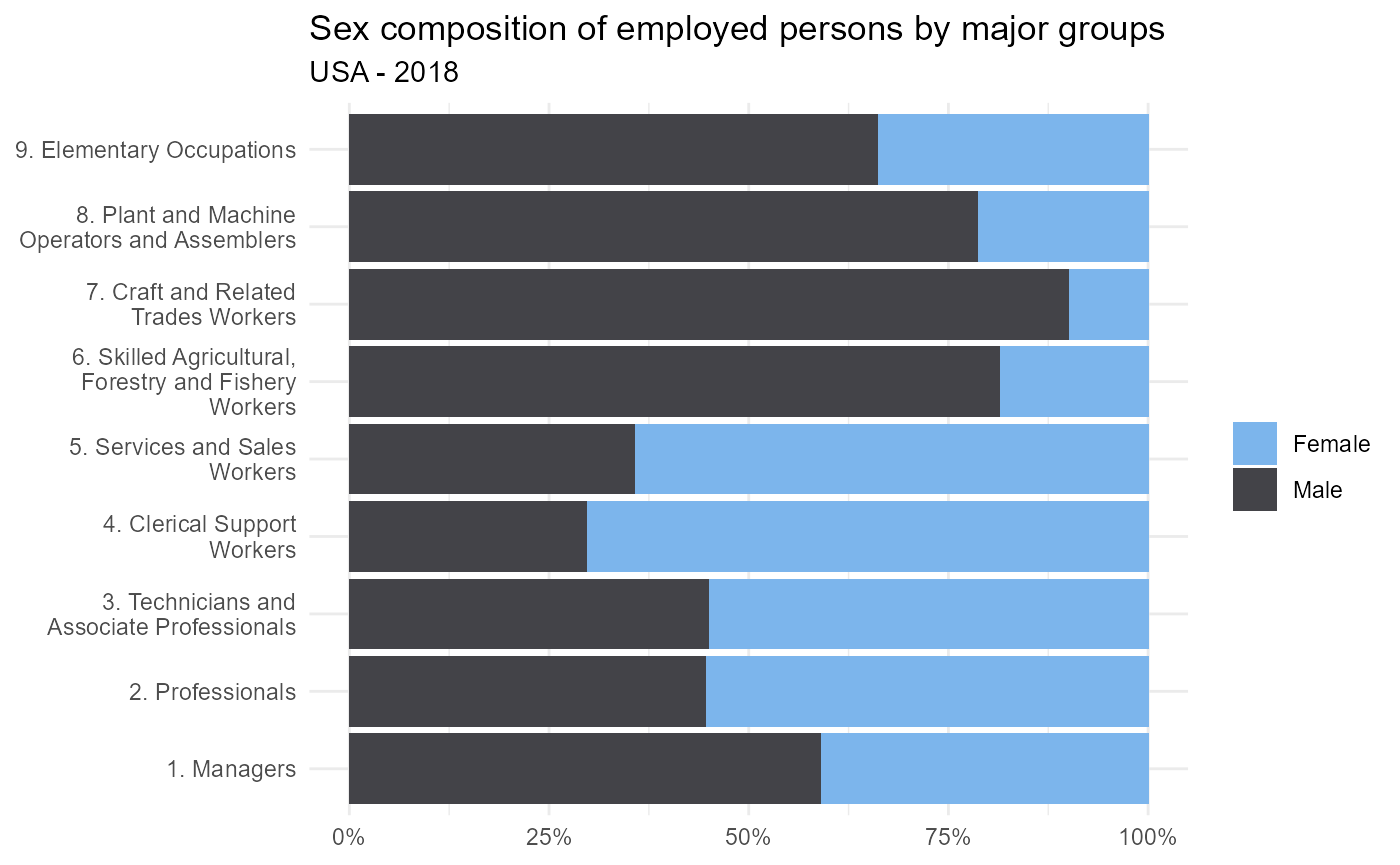
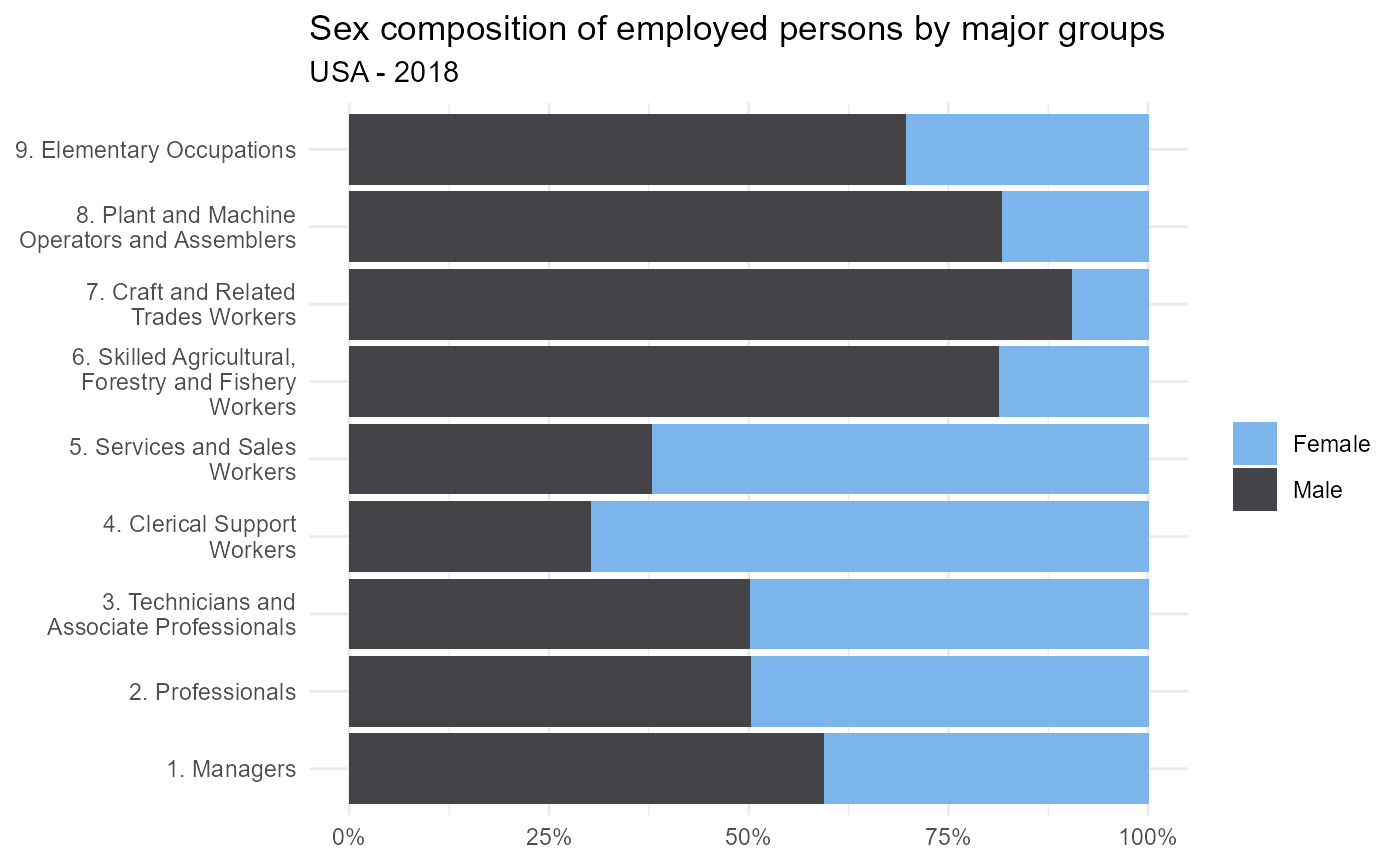
cambios 22_09_2021

diff --git a/docs/articles/Genre_analysis.html b/docs/articles/Genre_analysis.html
@@ -126,7 +126,8 @@
 <code class="sourceCode R"><span class="va">eph.2018.01</span> <span class="op">&lt;-</span> <span class="fu"><a href="../reference/reclassify_to_isco08.html">reclassify_to_isco08</a></span><span class="op">(</span><span class="va">eph.2018.01.original</span>, 
                                     <span class="va">PP04D_COD</span>, 
                                     classif_origin<span class="op">=</span><span class="st">"CNO2001"</span>, 
-                                    add_major_groups <span class="op">=</span> <span class="cn">TRUE</span><span class="op">)</span></code></pre></div>
+                                    add_major_groups <span class="op">=</span> <span class="cn">TRUE</span>,
+                                    add_skill <span class="op">=</span> <span class="cn">TRUE</span><span class="op">)</span></code></pre></div>
 <p>Now we can tabulate our new variable <em>“major_group”</em> using the EPH’s variable for genre <em>“CH04”</em> and plot the results</p>
 <div class="sourceCode" id="cb5"><pre class="downlit sourceCode r">
 <code class="sourceCode R">
@@ -154,25 +155,26 @@
   <span class="fu">coord_flip</span><span class="op">(</span><span class="op">)</span></code></pre></div>
 <p><img src="Genre_analysis_files/figure-html/unnamed-chunk-6-1.png" width="700"></p>
 <p>The graph above shows the sex composition of each major group. The major group 1 (Managers) is unevenly distributed since 68% of people working at these occupations are men. This is the case also for occupations from major groups 8 and 7, related to shop-floor industrial activities, which are mostly done by men (87% and 90% respectivly).</p>
-<p>Let’s compare these results to the occupations distribution by sex in the USA. We shall use the IPUMS’s version of the Current Population Survey 2018. If you want to reproduce this example, you should ask for the data extract of CPS at <a href="https://cps.ipums.org/" class="uri">https://cps.ipums.org/</a></p>
+<p>Let’s compare these results to the occupations distribution by sex in the United States of America. We shall use the IPUMS’s version of Annual Social and Economic Supllement from the Current Population Survey 2018. If you want to reproduce this example, you should ask for the data extract of CPS at <a href="https://cps.ipums.org/" class="uri">https://cps.ipums.org/</a></p>
 <div class="sourceCode" id="cb6"><pre class="downlit sourceCode r">
 <code class="sourceCode R">
-<span class="fu"><a href="https://rdrr.io/r/base/load.html">load</a></span><span class="op">(</span><span class="st">"../data-raw/bases/cps2018_occ_genre.rda"</span><span class="op">)</span></code></pre></div>
-<p>Once the dataframe is loaded, we can use <code>reclassify_to_isco08</code> in order to reclassify the variable <em>“OCC”</em> that contains the occupation clasification with the <em>“Census2010”</em> system. We also set <code>add_major_groups</code> as TRUE.</p>
+<span class="va">cps_asec_2018</span> <span class="op">&lt;-</span> <span class="fu"><a href="https://rdrr.io/r/base/readRDS.html">readRDS</a></span><span class="op">(</span><span class="st">"../data-raw/bases/Base_USA2018.RDS"</span><span class="op">)</span></code></pre></div>
+<p>Once the dataframe is loaded, we can use <code>reclassify_to_isco08</code> in order to reclassify the variable <em>“OCC2010”</em> that contains the occupation clasification with the <em>“Census2010”</em> system. We also set <code>add_major_groups</code> as TRUE.</p>
 <div class="sourceCode" id="cb7"><pre class="downlit sourceCode r">
 <code class="sourceCode R">
-<span class="va">cps.2018</span> <span class="op">&lt;-</span>  <span class="fu"><a href="../reference/reclassify_to_isco08.html">reclassify_to_isco08</a></span><span class="op">(</span><span class="va">cps2018_occ_genre</span>, 
-                                    <span class="va">OCC</span>, 
-                                    classif_origin<span class="op">=</span><span class="st">"Census2010"</span>, 
-                                    add_major_groups <span class="op">=</span> <span class="cn">TRUE</span><span class="op">)</span></code></pre></div>
+<span class="va">cps_asec_2018</span> <span class="op">&lt;-</span>  <span class="fu"><a href="../reference/reclassify_to_isco08.html">reclassify_to_isco08</a></span><span class="op">(</span><span class="va">cps_asec_2018</span>, 
+                                  <span class="va">OCC2010</span>, 
+                                  classif_origin<span class="op">=</span><span class="st">"Census2010"</span>, 
+                                  add_major_groups <span class="op">=</span> <span class="cn">TRUE</span>,
+                                  add_skill <span class="op">=</span> <span class="cn">TRUE</span><span class="op">)</span></code></pre></div>
 <p>Now we tabulate the data and plot it.</p>
 <div class="sourceCode" id="cb8"><pre class="downlit sourceCode r">
-<code class="sourceCode R"><span class="va">genre_composition.usa</span><span class="op">&lt;-</span> <span class="va">cps.2018</span> <span class="op">%&gt;%</span> 
+<code class="sourceCode R"><span class="va">genre_composition.usa</span><span class="op">&lt;-</span> <span class="va">cps_asec_2018</span> <span class="op">%&gt;%</span> 
   <span class="fu"><a href="https://rdrr.io/r/stats/filter.html">filter</a></span><span class="op">(</span><span class="va">EMPSTAT</span><span class="op">==</span><span class="fl">10</span> <span class="op">&amp;</span> <span class="op">!</span><span class="fu"><a href="https://rdrr.io/r/base/NA.html">is.na</a></span><span class="op">(</span><span class="va">major_group</span><span class="op">)</span><span class="op">)</span> <span class="op">%&gt;%</span> 
   <span class="fu">mutate</span><span class="op">(</span>genre<span class="op">=</span> <span class="fu">case_when</span><span class="op">(</span><span class="va">SEX</span><span class="op">==</span><span class="fl">1</span> <span class="op">~</span> <span class="st">"Male"</span>, 
                           <span class="va">SEX</span><span class="op">==</span><span class="fl">2</span> <span class="op">~</span> <span class="st">"Female"</span><span class="op">)</span><span class="op">)</span> <span class="op">%&gt;%</span> 
   <span class="fu">group_by</span><span class="op">(</span><span class="va">major_group</span>,<span class="va">genre</span><span class="op">)</span> <span class="op">%&gt;%</span> 
-  <span class="fu">summarise</span> <span class="op">(</span>absolute<span class="op">=</span><span class="fu">n</span><span class="op">(</span><span class="op">)</span><span class="op">)</span> <span class="op">%&gt;%</span> 
+  <span class="fu">summarise</span> <span class="op">(</span>absolute<span class="op">=</span><span class="fu"><a href="https://rdrr.io/r/base/sum.html">sum</a></span><span class="op">(</span><span class="va">ASECWT</span>,na.rm <span class="op">=</span> <span class="cn">T</span><span class="op">)</span><span class="op">)</span> <span class="op">%&gt;%</span> 
   <span class="fu">group_by</span><span class="op">(</span><span class="va">major_group</span><span class="op">)</span> <span class="op">%&gt;%</span> 
   <span class="fu">mutate</span><span class="op">(</span>percentage<span class="op">=</span> <span class="va">absolute</span><span class="op">/</span><span class="fu"><a href="https://rdrr.io/r/base/sum.html">sum</a></span><span class="op">(</span><span class="va">absolute</span><span class="op">)</span><span class="op">)</span> <span class="op">%&gt;%</span> 
   <span class="fu">ungroup</span><span class="op">(</span><span class="op">)</span> <span class="op">%&gt;%</span> 
@@ -191,24 +193,14 @@
   <span class="fu">scale_y_continuous</span><span class="op">(</span>labels <span class="op">=</span> <span class="fu">scales</span><span class="fu">::</span><span class="va"><a href="https://scales.r-lib.org/reference/label_percent.html">percent</a></span><span class="op">)</span><span class="op">+</span>
   <span class="fu">coord_flip</span><span class="op">(</span><span class="op">)</span></code></pre></div>
 <p><img src="Genre_analysis_files/figure-html/unnamed-chunk-9-1.png" width="700"></p>
-<p>The graph shows that occupations are unequaly distributed at major group 1 (Managers), whereas women represent 41% of total employmen and men 59%. The distribution is quite even for major groups 2 and 3. while women are the majority at major groups 4 and 5. In major groups 6 to 9, men are the majority</p>
+<p>The graph shows that occupations are unequaly distributed at major group 1 (Managers), whereas women represent 41% of total employmen and men 59%. The distribution is quite even for major groups 2 and 3. while women are the majority at major groups 4 and 5. In major groups 6 to 9, men are the majority.</p>
 </div>
 <div id="skill-level-analysis" class="section level3">
 <h3 class="hasAnchor">
 <a href="#skill-level-analysis" class="anchor"></a>Skill level analysis</h3>
-<p>Let’s analyse the sex distribution of skill levels based on the 9 ISCO major groups. The param <code>add_skill</code> in the <code>reclassify_to_isco08</code> function will get the 3-tiers variable for skill level, indicating whether the job is high, medium or low skilled. First we get the variable <em>skill_level</em> for the two datasets we are using.</p>
-<div class="sourceCode" id="cb9"><pre class="downlit sourceCode r">
-<code class="sourceCode R"><span class="va">eph.2018.01</span> <span class="op">&lt;-</span> <span class="fu"><a href="../reference/reclassify_to_isco08.html">reclassify_to_isco08</a></span><span class="op">(</span><span class="va">eph.2018.01.original</span>, 
-                                    <span class="va">PP04D_COD</span>, 
-                                    classif_origin<span class="op">=</span><span class="st">"CNO2001"</span>, 
-                                    add_skill <span class="op">=</span> <span class="cn">TRUE</span><span class="op">)</span>
-                                    
-<span class="va">cps.2018</span> <span class="op">&lt;-</span>  <span class="fu"><a href="../reference/reclassify_to_isco08.html">reclassify_to_isco08</a></span><span class="op">(</span><span class="va">cps2018_occ_genre</span>, 
-                                    <span class="va">OCC</span>, 
-                                    classif_origin<span class="op">=</span><span class="st">"Census2010"</span>, 
-                                    add_skill <span class="op">=</span> <span class="cn">TRUE</span><span class="op">)</span></code></pre></div>
+<p>Let’s analyse the sex distribution of skill levels based on the 9 ISCO major groups. Remember that we added before the param <code>add_skill</code> in the <code><a href="../reference/reclassify_to_isco08.html">reclassify_to_isco08()</a></code> function to get the 3-tiers variable for skill level, indicating whether the job is high, medium or low skilled.</p>
 <p>Now we can tabulate the data and plot it to compare</p>
-<div class="sourceCode" id="cb10"><pre class="downlit sourceCode r">
+<div class="sourceCode" id="cb9"><pre class="downlit sourceCode r">
 <code class="sourceCode R">
 <span class="va">genre_composition.skill.arg</span><span class="op">&lt;-</span> <span class="va">eph.2018.01</span> <span class="op">%&gt;%</span> 
   <span class="fu"><a href="https://rdrr.io/r/stats/filter.html">filter</a></span><span class="op">(</span><span class="va">ESTADO</span><span class="op">==</span><span class="fl">1</span> <span class="op">&amp;</span> <span class="op">!</span><span class="fu"><a href="https://rdrr.io/r/base/NA.html">is.na</a></span><span class="op">(</span><span class="va">skill_level</span><span class="op">)</span><span class="op">)</span> <span class="op">%&gt;%</span> 
@@ -217,20 +209,16 @@
   <span class="fu">group_by</span><span class="op">(</span><span class="va">skill_level</span>,<span class="va">genre</span><span class="op">)</span> <span class="op">%&gt;%</span> 
   <span class="fu">summarise</span> <span class="op">(</span>absolute<span class="op">=</span><span class="fu"><a href="https://rdrr.io/r/base/sum.html">sum</a></span><span class="op">(</span><span class="va">PONDERA</span><span class="op">)</span><span class="op">)</span> <span class="op">%&gt;%</span> 
   <span class="fu">group_by</span><span class="op">(</span><span class="va">skill_level</span><span class="op">)</span> <span class="op">%&gt;%</span> 
-  <span class="fu">mutate</span><span class="op">(</span>percentage<span class="op">=</span> <span class="va">absolute</span><span class="op">/</span><span class="fu"><a href="https://rdrr.io/r/base/sum.html">sum</a></span><span class="op">(</span><span class="va">absolute</span><span class="op">)</span><span class="op">)</span> <span class="op">%&gt;%</span> 
-  <span class="fu">ungroup</span><span class="op">(</span><span class="op">)</span> <span class="op">%&gt;%</span> 
-  <span class="fu">mutate</span><span class="op">(</span>skill_level <span class="op">=</span> <span class="fu">str_wrap</span><span class="op">(</span><span class="va">skill_level</span>,width <span class="op">=</span> <span class="fl">25</span><span class="op">)</span><span class="op">)</span>
+  <span class="fu">mutate</span><span class="op">(</span>percentage<span class="op">=</span> <span class="va">absolute</span><span class="op">/</span><span class="fu"><a href="https://rdrr.io/r/base/sum.html">sum</a></span><span class="op">(</span><span class="va">absolute</span><span class="op">)</span><span class="op">)</span> 
 
-<span class="va">genre_composition.skill.usa</span><span class="op">&lt;-</span> <span class="va">cps.2018</span> <span class="op">%&gt;%</span> 
+<span class="va">genre_composition.skill.usa</span><span class="op">&lt;-</span> <span class="va">cps_asec_2018</span> <span class="op">%&gt;%</span> 
   <span class="fu"><a href="https://rdrr.io/r/stats/filter.html">filter</a></span><span class="op">(</span><span class="va">EMPSTAT</span><span class="op">==</span><span class="fl">10</span> <span class="op">&amp;</span> <span class="op">!</span><span class="fu"><a href="https://rdrr.io/r/base/NA.html">is.na</a></span><span class="op">(</span><span class="va">skill_level</span><span class="op">)</span><span class="op">)</span> <span class="op">%&gt;%</span> 
   <span class="fu">mutate</span><span class="op">(</span>genre<span class="op">=</span> <span class="fu">case_when</span><span class="op">(</span><span class="va">SEX</span><span class="op">==</span><span class="fl">1</span> <span class="op">~</span> <span class="st">"Male"</span>, 
                           <span class="va">SEX</span><span class="op">==</span><span class="fl">2</span> <span class="op">~</span> <span class="st">"Female"</span><span class="op">)</span><span class="op">)</span> <span class="op">%&gt;%</span> 
   <span class="fu">group_by</span><span class="op">(</span><span class="va">skill_level</span>,<span class="va">genre</span><span class="op">)</span> <span class="op">%&gt;%</span> 
-  <span class="fu">summarise</span> <span class="op">(</span>absolute<span class="op">=</span><span class="fu">n</span><span class="op">(</span><span class="op">)</span><span class="op">)</span> <span class="op">%&gt;%</span> 
+  <span class="fu">summarise</span> <span class="op">(</span>absolute<span class="op">=</span><span class="fu"><a href="https://rdrr.io/r/base/sum.html">sum</a></span><span class="op">(</span><span class="va">ASECWT</span>,na.rm <span class="op">=</span> <span class="cn">T</span><span class="op">)</span><span class="op">)</span> <span class="op">%&gt;%</span> 
   <span class="fu">group_by</span><span class="op">(</span><span class="va">skill_level</span><span class="op">)</span> <span class="op">%&gt;%</span> 
-  <span class="fu">mutate</span><span class="op">(</span>percentage<span class="op">=</span> <span class="va">absolute</span><span class="op">/</span><span class="fu"><a href="https://rdrr.io/r/base/sum.html">sum</a></span><span class="op">(</span><span class="va">absolute</span><span class="op">)</span><span class="op">)</span> <span class="op">%&gt;%</span> 
-  <span class="fu">ungroup</span><span class="op">(</span><span class="op">)</span> <span class="op">%&gt;%</span> 
-  <span class="fu">mutate</span><span class="op">(</span>skill_level <span class="op">=</span> <span class="fu">str_wrap</span><span class="op">(</span><span class="va">skill_level</span>,width <span class="op">=</span> <span class="fl">25</span><span class="op">)</span><span class="op">)</span>
+  <span class="fu">mutate</span><span class="op">(</span>percentage<span class="op">=</span> <span class="va">absolute</span><span class="op">/</span><span class="fu"><a href="https://rdrr.io/r/base/sum.html">sum</a></span><span class="op">(</span><span class="va">absolute</span><span class="op">)</span><span class="op">)</span> 
 
 <span class="va">genre_composition.skill</span> <span class="op">&lt;-</span> <span class="fu">bind_rows</span><span class="op">(</span><span class="st">"Argentina"</span> <span class="op">=</span> <span class="va">genre_composition.skill.arg</span>, <span class="st">"USA"</span><span class="op">=</span> <span class="va">genre_composition.skill.usa</span>, .id<span class="op">=</span><span class="st">"country"</span><span class="op">)</span>
 
@@ -245,8 +233,9 @@
         legend.title <span class="op">=</span> <span class="fu">element_blank</span><span class="op">(</span><span class="op">)</span><span class="op">)</span><span class="op">+</span>
   <span class="fu"><a href="https://rdrr.io/pkg/ggthemes/man/scale_hc.html">scale_fill_hc</a></span><span class="op">(</span><span class="op">)</span><span class="op">+</span>
   <span class="fu">scale_y_continuous</span><span class="op">(</span>labels <span class="op">=</span> <span class="fu">scales</span><span class="fu">::</span><span class="va"><a href="https://scales.r-lib.org/reference/label_percent.html">percent</a></span><span class="op">)</span></code></pre></div>
-<p><img src="Genre_analysis_files/figure-html/unnamed-chunk-11-1.png" width="700"></p>
-<p>In Argentina, High complexity occupations are perfomed 50-50 percent among women and men. In USA women are the majority at that level with 52%.</p>
+<p><img src="Genre_analysis_files/figure-html/unnamed-chunk-10-1.png" width="700"></p>
+<p>In Argentina, 56% of Low skilled occupations were performed by women in 2018, whereas in USA only 30% of this type of occupations were performed by women.</p>
+<p>In Argentina, High complexity occupations were perfomed 50-50 percent among women and men. In USA, women performed 48% of high complexity occupations.</p>
 <p>The package <em>occupationcross</em> has thereby allowed us to carry out an international comparison based on different occupations classification systems. The same analysis that we have put forward for genre could be done using any of the socio-economic variables avaiable in datasets, such as age, region, incomes, etc.</p>
 </div>
 </div>

diff --git a/docs/articles/occupationcross.html b/docs/articles/occupationcross.html
@@ -131,7 +131,7 @@
 <code>base</code>: Dataframe containing a variable corresponding to any occupational classification detailed in <code>available_classifications</code>.<br>
 </li>
 <li>
-<code>variable</code>: variable containing occupational codes. In our case, they are named <em>OCC</em> in CPS-USA database, and <em>P3</em> in ENOE - Mexico database.<br>
+<code>variable</code>: variable containing occupational codes. In our case, they are named <em>OCC2010</em> in CPS-USA database, and <em>P3</em> in ENOE - Mexico database.<br>
 </li>
 <li>
 <code>classif_origin</code>: character indicating which classification is used in original database. Look at <code>available_classifications</code>.<br>
@@ -149,7 +149,7 @@
                                             code_titles <span class="op">=</span> <span class="cn">T</span><span class="op">)</span>
 
 <span class="va">usa_base_crossed</span> <span class="op">&lt;-</span> <span class="fu"><a href="../reference/reclassify_to_isco08.html">reclassify_to_isco08</a></span><span class="op">(</span>base <span class="op">=</span> <span class="va">usa_cps_base</span>,
-                                             variable <span class="op">=</span> <span class="va">OCC</span>,
+                                             variable <span class="op">=</span> <span class="va">OCC2010</span>,
                                              classif_origin <span class="op">=</span> <span class="st">"Census2010"</span>,
                                              add_skill <span class="op">=</span> <span class="cn">T</span>,
                                              code_titles <span class="op">=</span> <span class="cn">T</span><span class="op">)</span></code></pre></div>
@@ -157,20 +157,29 @@
 <div id="comparing-skill-levels-between-countries" class="section level3">
 <h3 class="hasAnchor">
 <a href="#comparing-skill-levels-between-countries" class="anchor"></a>Comparing skill levels between countries:</h3>
-<p>Based on this reclassification to ISCO-08 we can now compare the distribution of skill levels of occupations among both countries.<br>
-- Nearly 50% of U.S. occupations are classified at the high-skill level.<br>
-- Only 22% of Mexico occupations are classified at the high-skill level</p>
+<p>Based on this reclassification to ISCO-08 we can now compare the distribution of skill levels of occupations among both countries <a href="#fn1" class="footnote-ref" id="fnref1"><sup>1</sup></a>.</p>
+<ul>
+<li>47% of U.S. occupations are classified at the high-skill level.<br>
+</li>
+<li>Only 22% of Mexico occupations are classified at the high-skill level</li>
+</ul>
 <div class="sourceCode" id="cb6"><pre class="downlit sourceCode r">
 <code class="sourceCode R"><span class="fu"><a href="https://rdrr.io/r/base/proportions.html">prop.table</a></span><span class="op">(</span><span class="fu"><a href="https://rdrr.io/r/base/table.html">table</a></span><span class="op">(</span><span class="va">usa_base_crossed</span><span class="op">$</span><span class="va">skill_level</span><span class="op">)</span><span class="op">)</span>
 <span class="co">#&gt; </span>
 <span class="co">#&gt;       Low    Medium      High </span>
-<span class="co">#&gt; 0.1149970 0.4039943 0.4810086</span></code></pre></div>
+<span class="co">#&gt; 0.1061681 0.4262887 0.4675432</span></code></pre></div>
 <div class="sourceCode" id="cb7"><pre class="downlit sourceCode r">
 <code class="sourceCode R"><span class="fu"><a href="https://rdrr.io/r/base/proportions.html">prop.table</a></span><span class="op">(</span><span class="fu"><a href="https://rdrr.io/r/base/table.html">table</a></span><span class="op">(</span><span class="va">mexico_base_crossed</span><span class="op">$</span><span class="va">skill_level</span><span class="op">)</span><span class="op">)</span>
 <span class="co">#&gt; </span>
 <span class="co">#&gt;       Low    Medium      High </span>
 <span class="co">#&gt; 0.1835336 0.5991705 0.2172959</span></code></pre></div>
 </div>
+</div>
+<div class="footnotes">
+<hr>
+<ol>
+<li id="fn1"><p>Note that for simplicity we are not using here survey weights. A more accurate analysis should include them<a href="#fnref1" class="footnote-back">↩</a></p></li>
+</ol>
 </div>
   </div>
 

diff --git a/docs/reference/skill_level.html b/docs/reference/skill_level.html
@@ -160,8 +160,8 @@
 <span class='va'>base_uruguay_skill</span> <span class='op'>&lt;-</span> <span class='fu'>skill_level</span><span class='op'>(</span><span class='va'>toy_base_uruguay</span>, <span class='va'>f71_2</span>, classif_origin<span class='op'>=</span><span class='st'>"ISCO08"</span><span class='op'>)</span>
 <span class='va'>base_mexico_skill</span> <span class='op'>&lt;-</span> <span class='fu'>skill_level</span><span class='op'>(</span><span class='va'>toy_base_mexico</span>, <span class='va'>p3</span>, classif_origin <span class='op'>=</span> <span class='st'>"SINCO2011"</span><span class='op'>)</span>
 </div><div class='output co'>#&gt; <span class='warning'>Warning: Los siguientes codigos de la base provista no se encuentran en los cross_table y no fue posible realizar su crosswalk: NA</span></div><div class='input'><span class='va'>base_eph_skill</span> <span class='op'>&lt;-</span> <span class='fu'>skill_level</span><span class='op'>(</span><span class='va'>toy_base_eph_argentina</span>, <span class='va'>PP04D_COD</span>, classif_origin <span class='op'>=</span> <span class='st'>"CNO2001"</span><span class='op'>)</span>
-</div><div class='output co'>#&gt; <span class='warning'>Warning: Los siguientes codigos de la base provista no se encuentran en los cross_table y no fue posible realizar su crosswalk: c(NA, "92333", "43331", "45331", "71331", "99998", "30132", "81339", "30339", "30319", "99997", "42339", "99991", "30123", "99999", "54333", "31333", "11331", "46333", "61331", "20131", "11131", "33123", "82131", "57122", "43332", "44331", "90333", "41331", "54322", "43131")</span></div><div class='input'><span class='va'>base_cps_skill</span> <span class='op'>&lt;-</span> <span class='fu'>skill_level</span><span class='op'>(</span><span class='va'>toy_base_ipums_cps_2018</span>, <span class='va'>OCC</span>, classif_origin <span class='op'>=</span>  <span class='st'>"Census2010"</span><span class='op'>)</span>
-
+</div><div class='output co'>#&gt; <span class='warning'>Warning: Los siguientes codigos de la base provista no se encuentran en los cross_table y no fue posible realizar su crosswalk: c(NA, "92333", "43331", "45331", "71331", "99998", "30132", "81339", "30339", "30319", "99997", "42339", "99991", "30123", "99999", "54333", "31333", "11331", "46333", "61331", "20131", "11131", "33123", "82131", "57122", "43332", "44331", "90333", "41331", "54322", "43131")</span></div><div class='input'><span class='va'>base_cps_skill</span> <span class='op'>&lt;-</span> <span class='fu'>skill_level</span><span class='op'>(</span><span class='va'>toy_base_ipums_cps_2018</span>, <span class='va'>OCC2010</span>, classif_origin <span class='op'>=</span>  <span class='st'>"Census2010"</span><span class='op'>)</span>
+</div><div class='output co'>#&gt; <span class='warning'>Warning: Los siguientes codigos de la base provista no se encuentran en los cross_table y no fue posible realizar su crosswalk: c("1100", "730", "620", "3650", "2150", "3530", "3130", "2140", "3410", "9100", "130", "1960", "560")</span></div><div class='input'>
 
 </div></pre>
   </div>

diff --git a/docs/reference/reclassify_to_isco08.html b/docs/reference/reclassify_to_isco08.html
@@ -187,8 +187,8 @@
     <pre class="examples"><div class='input'>
 
 
-<span class='va'>USA_database_with_isco08</span> <span class='op'>&lt;-</span> <span class='fu'>reclassify_to_isco08</span><span class='op'>(</span><span class='va'>toy_base_ipums_cps_2018</span>, <span class='va'>OCC</span>, classif_origin<span class='op'>=</span><span class='st'>"Census2010"</span><span class='op'>)</span>
-<span class='va'>MEX_database_with_isco08</span> <span class='op'>&lt;-</span> <span class='fu'>reclassify_to_isco08</span><span class='op'>(</span><span class='va'>toy_base_mexico</span>, <span class='va'>p3</span>, classif_origin<span class='op'>=</span><span class='st'>"SINCO2011"</span><span class='op'>)</span>
+<span class='va'>USA_database_with_isco08</span> <span class='op'>&lt;-</span> <span class='fu'>reclassify_to_isco08</span><span class='op'>(</span><span class='va'>toy_base_ipums_cps_2018</span>, <span class='va'>OCC2010</span>, classif_origin<span class='op'>=</span><span class='st'>"Census2010"</span><span class='op'>)</span>
+</div><div class='output co'>#&gt; <span class='warning'>Warning: Los siguientes codigos de la base provista no se encuentran en los cross_table y no fue posible realizar su crosswalk: c("1100", "730", "620", "3650", "2150", "3530", "3130", "2140", "3410", "9100", "130", "1960", "560")</span></div><div class='input'><span class='va'>MEX_database_with_isco08</span> <span class='op'>&lt;-</span> <span class='fu'>reclassify_to_isco08</span><span class='op'>(</span><span class='va'>toy_base_mexico</span>, <span class='va'>p3</span>, classif_origin<span class='op'>=</span><span class='st'>"SINCO2011"</span><span class='op'>)</span>
 </div><div class='output co'>#&gt; <span class='warning'>Warning: Los siguientes codigos de la base provista no se encuentran en los cross_table y no fue posible realizar su crosswalk: NA</span></div><div class='input'><span class='va'>ARG_database_with_isco08</span> <span class='op'>&lt;-</span> <span class='fu'>reclassify_to_isco08</span><span class='op'>(</span><span class='va'>toy_base_eph_argentina</span>, <span class='va'>PP04D_COD</span>, classif_origin<span class='op'>=</span><span class='st'>"CNO2001"</span><span class='op'>)</span>
 </div><div class='output co'>#&gt; <span class='warning'>Warning: Los siguientes codigos de la base provista no se encuentran en los cross_table y no fue posible realizar su crosswalk: c(NA, "92333", "43331", "45331", "71331", "99998", "30132", "81339", "30339", "30319", "99997", "42339", "99991", "30123", "99999", "54333", "31333", "11331", "46333", "61331", "20131", "11131", "33123", "82131", "57122", "43332", "44331", "90333", "41331", "54322", "43131")</span></div></pre>
   </div>

diff --git a/docs/reference/census2010_to_isco08.html b/docs/reference/census2010_to_isco08.html
@@ -161,8 +161,8 @@
 
     <h2 class="hasAnchor" id="examples"><a class="anchor" href="#examples"></a>Examples</h2>
     <pre class="examples"><div class='input'>
-<span class='va'>base_crossed</span> <span class='op'>&lt;-</span> <span class='fu'>census2010_to_isco08</span><span class='op'>(</span><span class='va'>toy_base_ipums_cps_2018</span>,census <span class='op'>=</span> <span class='va'>OCC</span>,summary <span class='op'>=</span> <span class='cn'>TRUE</span><span class='op'>)</span>
-
+<span class='va'>base_crossed</span> <span class='op'>&lt;-</span> <span class='fu'>census2010_to_isco08</span><span class='op'>(</span><span class='va'>toy_base_ipums_cps_2018</span>,census <span class='op'>=</span> <span class='va'>OCC2010</span>,summary <span class='op'>=</span> <span class='cn'>TRUE</span><span class='op'>)</span>
+</div><div class='output co'>#&gt; <span class='warning'>Warning: Los siguientes codigos de la base provista no se encuentran en los cross_table y no fue posible realizar su crosswalk: c("1100", "730", "620", "3650", "2150", "3530", "3130", "2140", "3410", "9100", "130", "1960", "560")</span></div><div class='input'>
 </div></pre>
   </div>
   <div class="col-md-3 hidden-xs hidden-sm" id="pkgdown-sidebar">

diff --git a/docs/reference/census2010_to_soc2010.html b/docs/reference/census2010_to_soc2010.html
@@ -157,7 +157,7 @@
 
     <h2 class="hasAnchor" id="examples"><a class="anchor" href="#examples"></a>Examples</h2>
     <pre class="examples"><div class='input'>
-<span class='va'>base_crossed</span> <span class='op'>&lt;-</span> <span class='fu'>census2010_to_soc2010</span><span class='op'>(</span><span class='va'>toy_base_ipums_cps_2018</span>,census <span class='op'>=</span> <span class='st'>"OCC"</span>,code_titles <span class='op'>=</span> <span class='cn'>FALSE</span><span class='op'>)</span>
+<span class='va'>base_crossed</span> <span class='op'>&lt;-</span> <span class='fu'>census2010_to_soc2010</span><span class='op'>(</span><span class='va'>toy_base_ipums_cps_2018</span>,census <span class='op'>=</span> <span class='st'>"OCC2010"</span>,code_titles <span class='op'>=</span> <span class='cn'>FALSE</span><span class='op'>)</span>
 
 </div></pre>
   </div>
